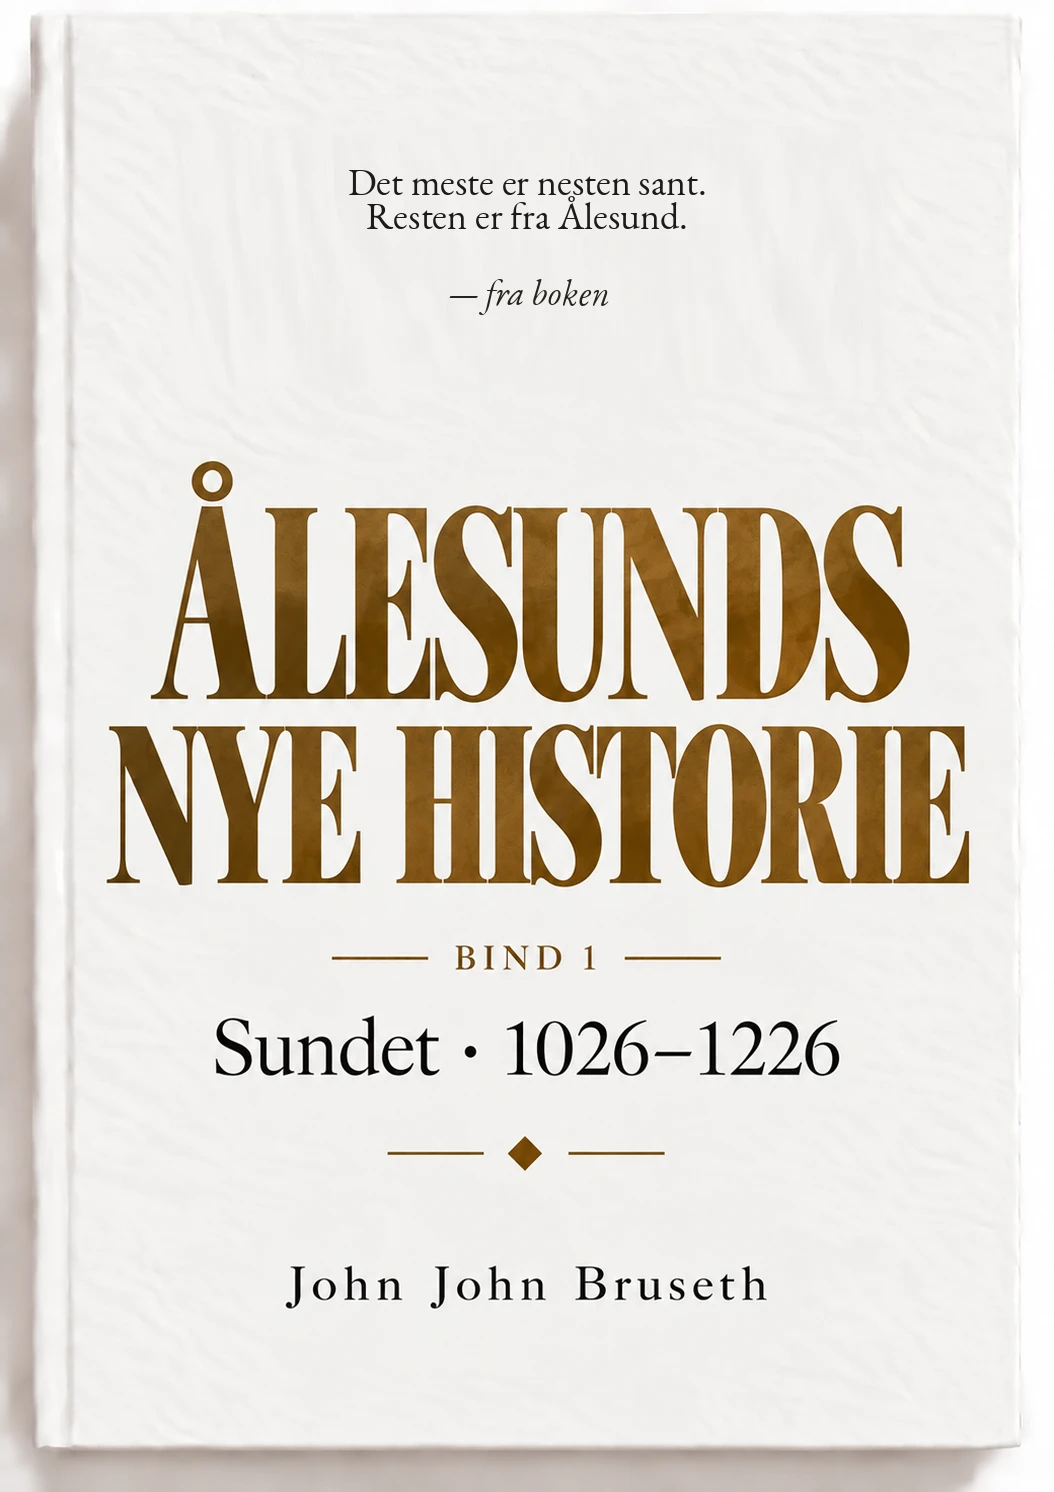
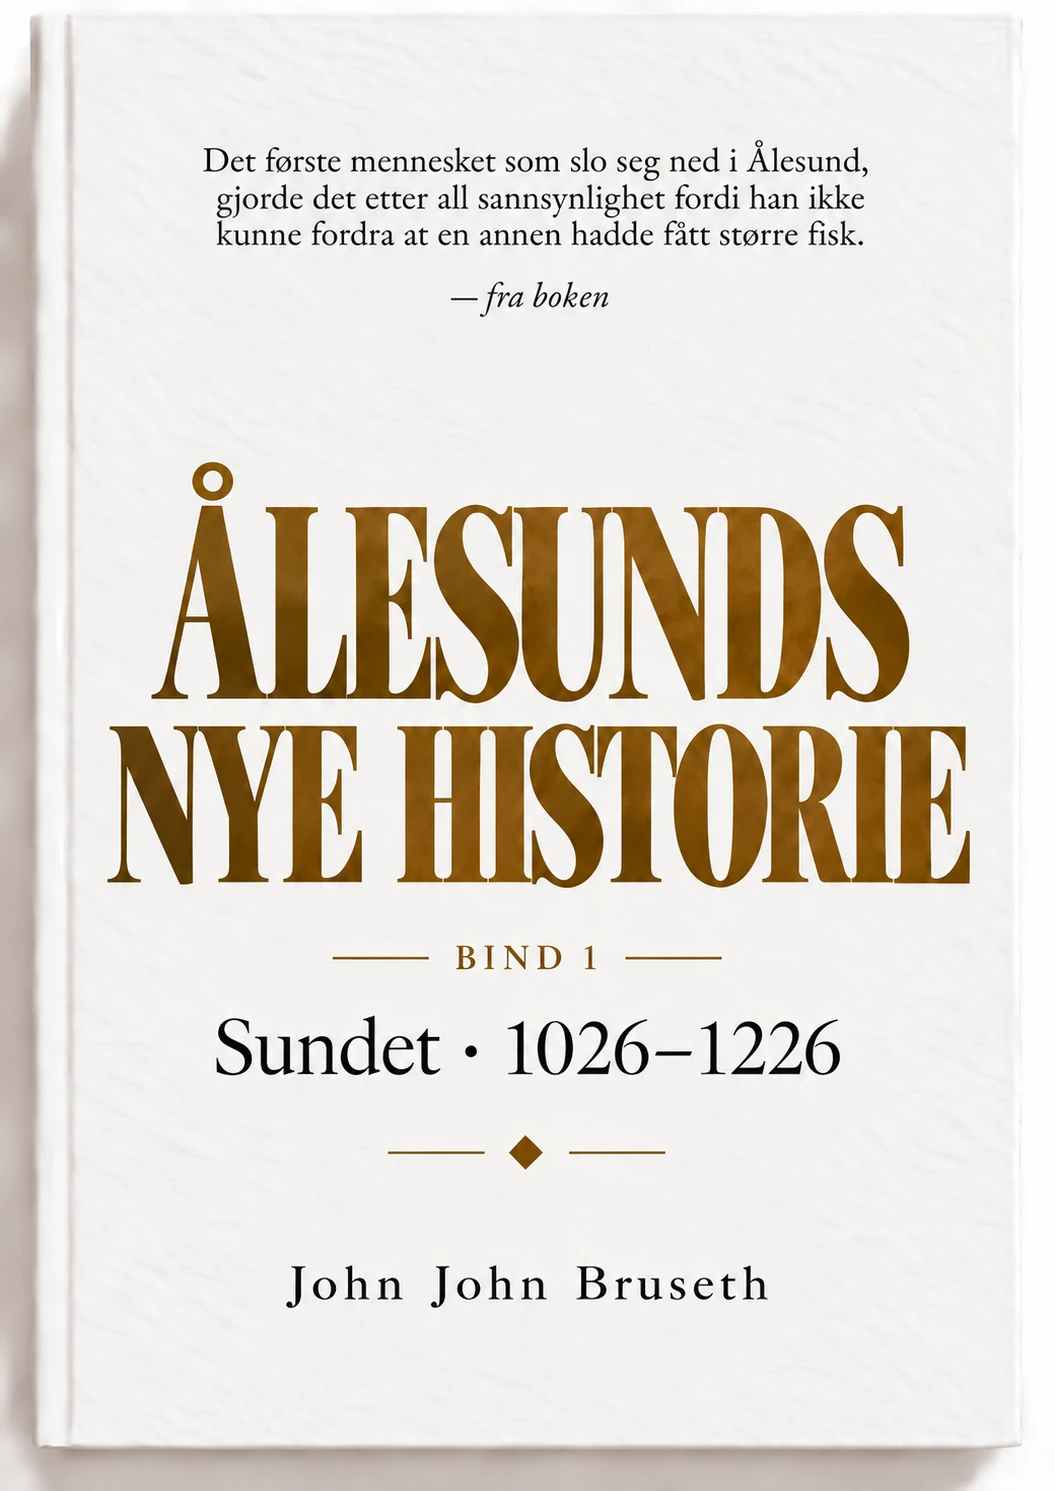
Legg inn Ålesunds nye historie bind 2–4, nytt omslag bind 1
Claude-Session: https://claude.ai/code/session_01EkAnRk3mPA7AC7gyRa1ibW

diff --git a/index.html b/index.html
@@ -549,7 +549,34 @@ Derfra går det slag i slag. Olav den hellige dør fire ganger før nyheten når
 
 Konger kommer og går, borgerkrigen raser et annet sted, og ved sundet sladres det, krangles det og handles det, gjerne til en pris som er svært urimelig.
 
-ÅLESUNDS NYE HISTORIE er tusen år med misunnelse, storhet, sladder og andre sunnmørske naturressurser, fortalt i fire bind. Bind 1, Sundet, følger de første to hundre årene, fra den første torsken til den første handelen. Det meste er nesten sant. Resten er fra Ålesund.` }
+ÅLESUNDS NYE HISTORIE er tusen år med misunnelse, storhet, sladder og andre sunnmørske naturressurser, fortalt i fire bind. Bind 1, Sundet, følger de første to hundre årene, fra den første torsken til den første handelen. Det meste er nesten sant. Resten er fra Ålesund.` },
+  { tittel: "Ålesunds nye historie", undertittel: "Bind 2 · Handelsstedet 1228–1520", hoved: "alesund", under: "serier",
+    serie: "Ålesunds nye historie, bind 2 av 4",
+    omslag: "alesunds-nye-historie-2.webp", farge: "#f4f2ee", tekstfarge: "#7a5418",
+    sitat: "Det begynte med en fisk som ikke fantes.",
+    teaser: `Året er omkring 1228. Asbjørn av Nørv-slekta er så sjøsyk at han er blitt handelsmann, og han selger det samme fiskepartiet til to kjøpere før det er fanget. Ylva Stuen redder ham. Mot betaling.
+
+Derfra går det slag i slag. En handelsmann veier svigermoren på sin nye, ærlige vekt, og loddene flyr utover handelsplassen. En sunnmøring reiser til kroningen i 1247 og ser ingenting av kongen. Olve vil anmelde vinden etter den nye landsloven, og lagrettemannen spør hvor den bor. En mann kjøper en øy som forsvinner ved flo. En sju år gammel dronning krones med en nepe, og en geit spiser halve krona. Svartedauden kommer, de tyske kjøpmennene kommer, og på Stuen holder kvinnene regnskap med alt sammen.
+
+ÅLESUNDS NYE HISTORIE er tusen år med misunnelse, storhet, sladder og andre sunnmørske naturressurser, fortalt i fire bind. Bind 2, Handelsstedet, følger Borgund fra 1228 til 1520, fra fisken som ikke fantes til det første ålesundske tollvesenet, som ble nedlagt før det åpnet. Av tollerens egen mor. Det meste er nesten sant. Resten er fra Ålesund.` },
+  { tittel: "Ålesunds nye historie", undertittel: "Bind 3 · Sundet som ville bli by 1515–1800", hoved: "alesund", under: "serier",
+    serie: "Ålesunds nye historie, bind 3 av 4",
+    omslag: "alesunds-nye-historie-3.webp", farge: "#f4f2ee", tekstfarge: "#7a5418",
+    sitat: "Det som skulle selges, lå under vann.",
+    teaser: `Våren 1515 prøver Knut Erlendsson å selge retten til sundet mellom Aspøya og Nørvøya til en kjøpmann fra Bergen. Det som skulle selges, lå under vann. Knut mente det var en fordel. Man slapp å vise det fram.
+
+Derfra går det slag i slag. I 1551 bor det 147 mennesker i et hus med plass til seks, helt til noen nevner fogden. Hjemmevernet på Aspøya skyter neper mot fire halmsvensker. Losen styrer etter konas underbukser, til ei geit stikker av med dem og sjømerket begynner å springe. Det selvutnevnte bystyret lager et byvåpen med en måke med fire bein. Hele stedet venter Tordenskjold, og det kommer en mann med tannverk. Den første skolen står på hjul og ruller mot sjøen.
+
+ÅLESUNDS NYE HISTORIE er tusen år med misunnelse, storhet, sladder og andre sunnmørske naturressurser, fortalt i fire bind. Bind 3, Sundet som ville bli by, følger stedet fra 1515 til 1800, fra et sund som lå under vann til et ladestedsskilt som falt i sjøen uten sin siste D. Det meste er nesten sant. Resten er fra Ålesund.` },
+  { tittel: "Ålesunds nye historie", undertittel: "Bind 4 · Byen som skulle bli noe 1801–2026", hoved: "alesund", under: "serier",
+    serie: "Ålesunds nye historie, bind 4 av 4",
+    omslag: "alesunds-nye-historie-4.webp", farge: "#f4f2ee", tekstfarge: "#7a5418",
+    sitat: "Natta da Ålesund mistet alt. Bortsett fra sunnmøringene.",
+    teaser: `Den 1. februar 1801 går klokkeren Mons fra hus til hus med folketellingen. Tormod vil føres opp som «fisker og kjøpmann». Mons skriver «fisker».
+
+Derfra går det slag i slag. Ei geit spiser halve fredstraktaten fra Kiel under et møte om Norges framtid. Tormod ønsker et selvstendig Norge, dersom det kan gjennomføres uten urimelige utgifter. Et helt hotell kommer sjøveien i deler. En trykkfeil setter en enkemadam til salgs, med åtte stoler. Den første telefonsamtalen blir fullstendig vellykket: Ingen fikk svar, og begge ble fornærmet. Natta til 23. januar 1904 brenner byen, og det første Klara får fra Tyskland, er en høyrestøvel.
+
+ÅLESUNDS NYE HISTORIE er tusen år med misunnelse, storhet, sladder og andre sunnmørske naturressurser, fortalt i fire bind. Bind 4, Byen som skulle bli noe, følger Ålesund fra 1801 og fram til i dag, gjennom kjøpstadsrett, storsild, bybrann, jugend og krig, helt fram til cruiseskipene ved Brosundet. Det meste er nesten sant. Resten er fra Ålesund.` }
 ];
 </script>
 <script>
